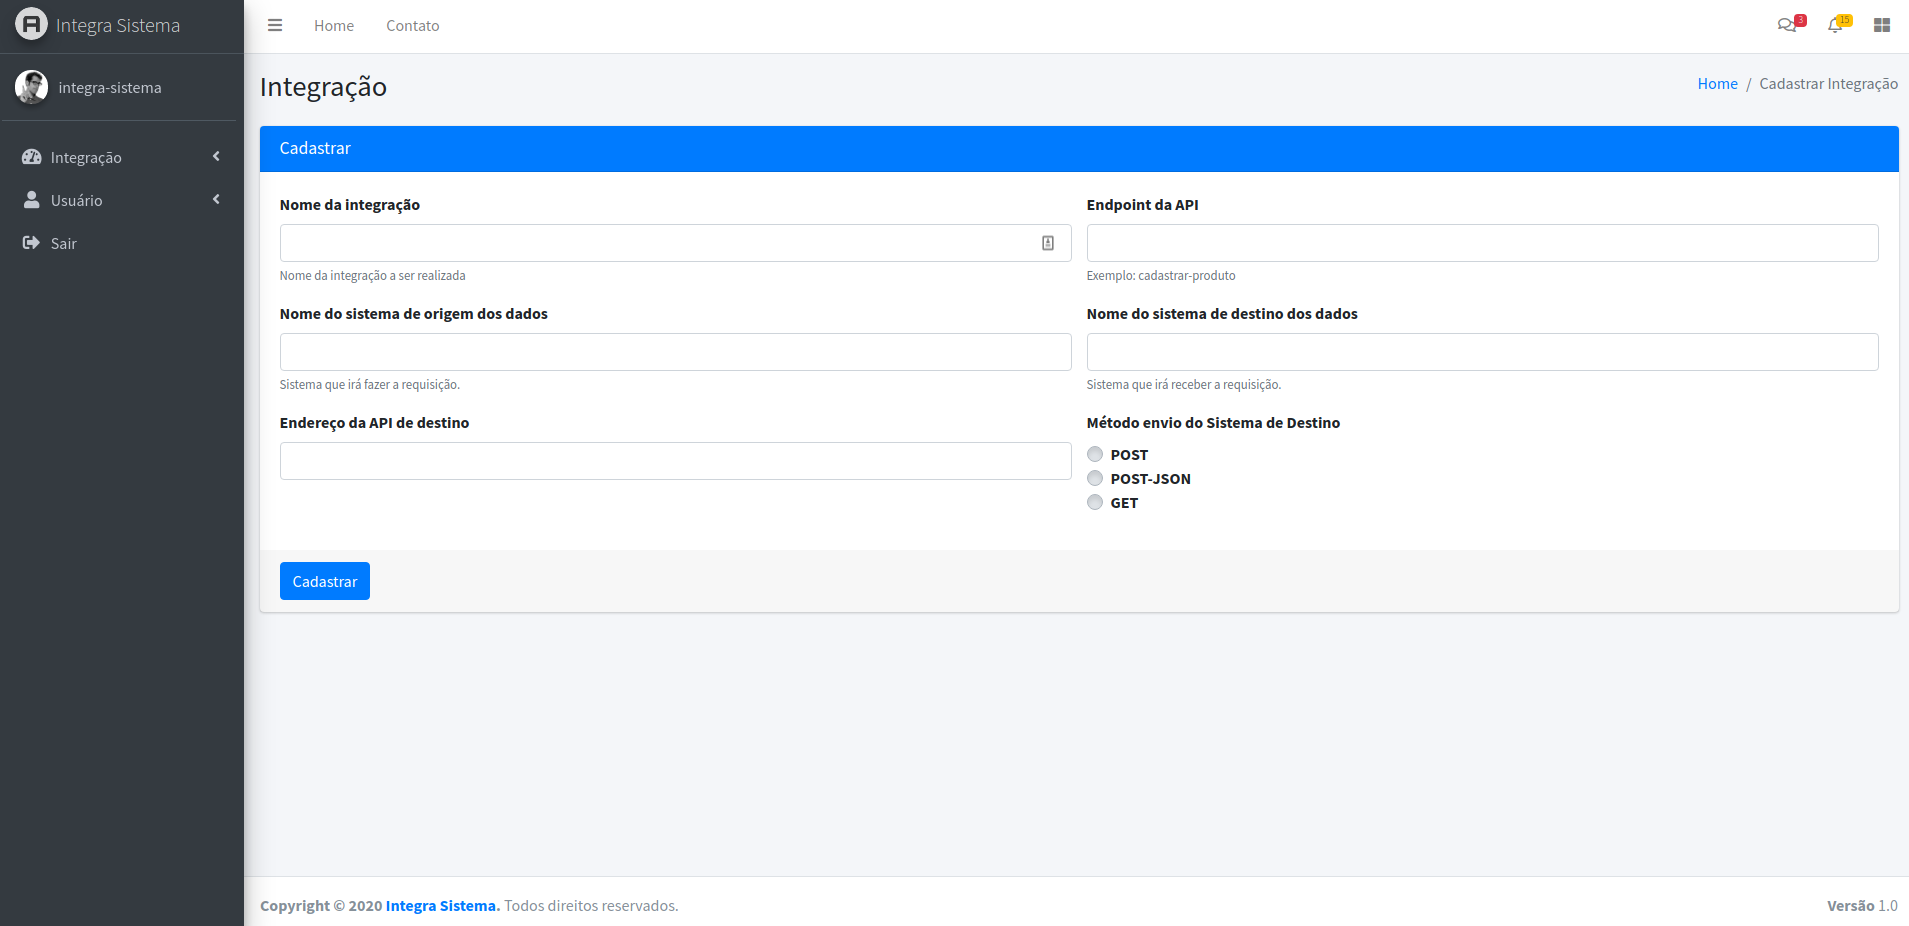
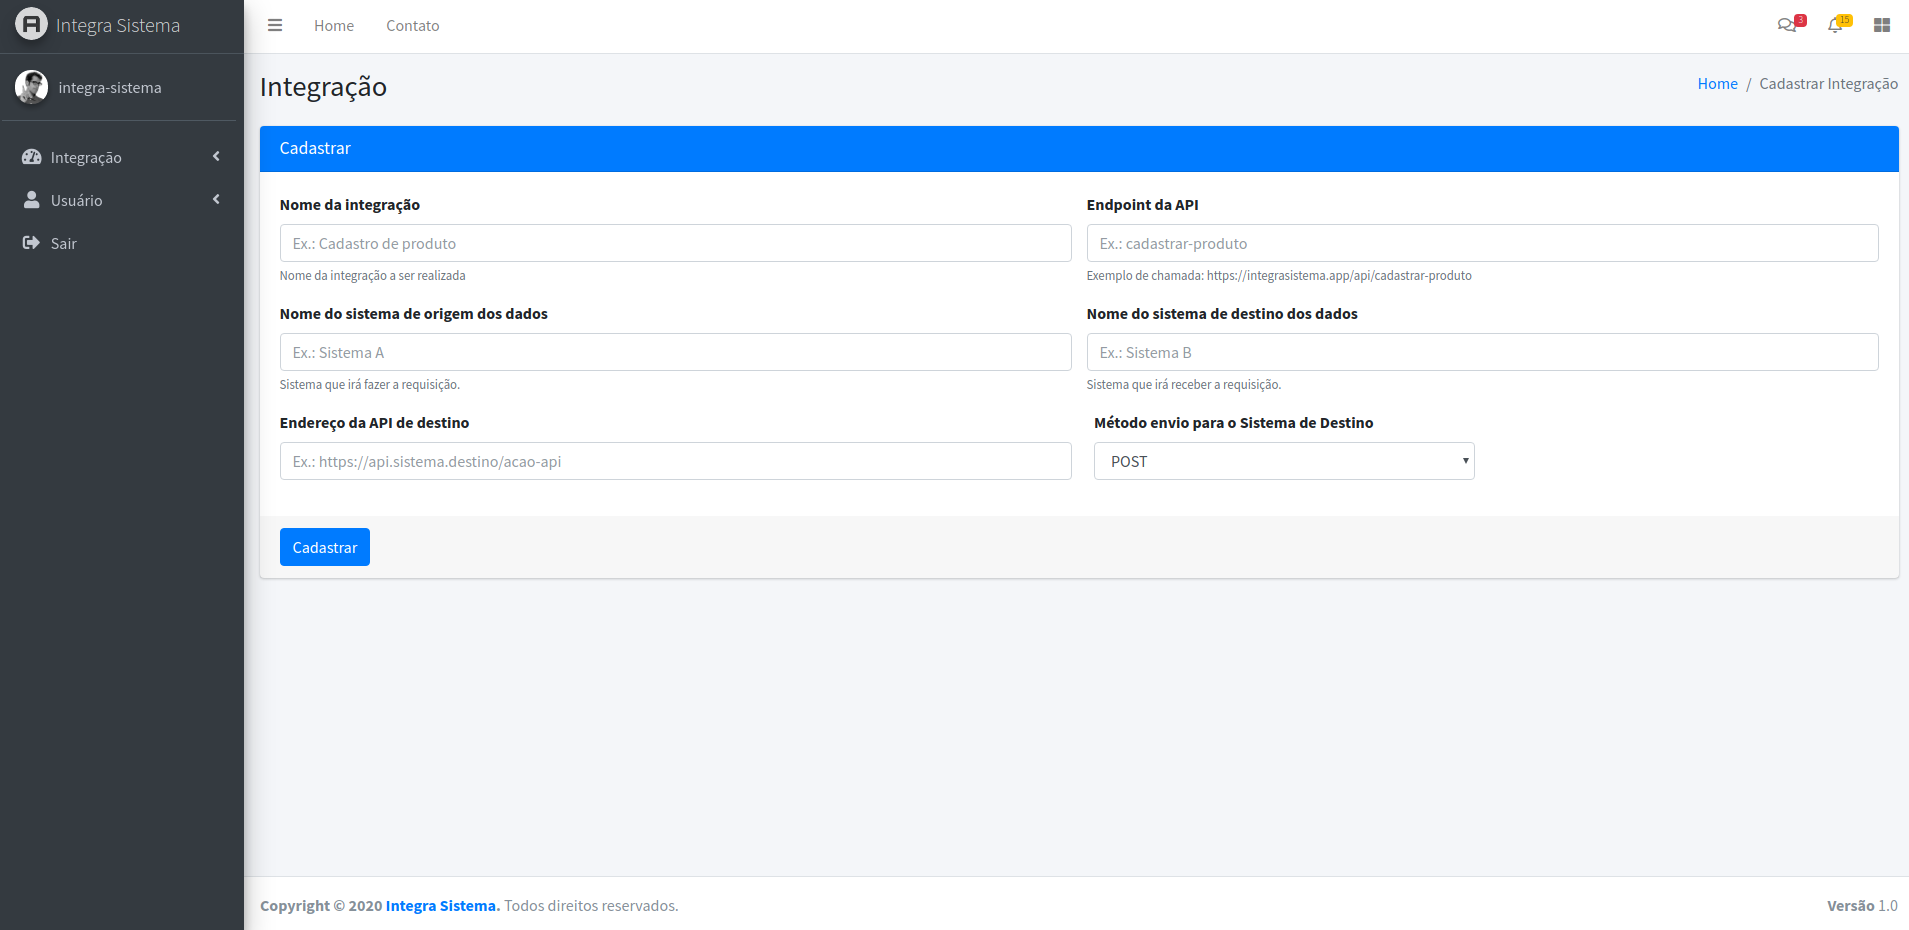
Ajuste na tela de cadastro de integração e na documentação

diff --git a/template/integracao/editar.html b/template/integracao/editar.html
@@ -52,47 +52,40 @@
                                         <div class="row">                    
                                             <div class="col-md-6">
                                                 <div class="form-group">
-                                                    <label for="nome">Nome da integração</label>
+                                                    <label for="nome">Nome da integração: <span class="text-success">{{.Parametro.Integracao.Nome}}</span></label>
                                                     <input type="hidden" id="id" name="id" required value="{{.Parametro.Integracao.ID}}" />
                                                     <input type="text" class="form-control" id="nome" name="nome" required value="{{.Parametro.Integracao.Nome}}" />
                                                     <small class="form-text text-muted">Nome usado para identificar a integração.</small>
                                                 </div>                            
                                                 <div class="form-group">
-                                                    <label for="nome_sistema_origem">Nome do sistema de origem dos dados</label>
+                                                    <label for="nome_sistema_origem">Nome do sistema de origem dos dados: <span class="text-success">{{.Parametro.Integracao.NomeSistemaOrigem}}</span></label>
                                                     <input type="text" class="form-control" id="nome_sistema_origem" name="nome_sistema_origem" required value="{{.Parametro.Integracao.NomeSistemaOrigem}}" />
                                                     <small class="form-text text-muted">Sistema que irá fazer a requisição.</small>
                                                 </div>
                                                 <div class="form-group">
-                                                    <label for="api_sistema_destino">Endereço da API de destino</label>
+                                                    <label for="api_sistema_destino">Endereço da API de destino: <span class="text-success">{{.Parametro.Integracao.APISistemaDestino}}</span></label>
                                                     <input type="text" class="form-control" id="api_sistema_destino" name="api_sistema_destino" required value="{{.Parametro.Integracao.APISistemaDestino}}" />
                                                 </div>                                                
                                             </div>
                                             <div class="col-md-6">
                                                 <div class="form-group">
-                                                    <label for="endpoint">Endpoint da API</label>                                
+                                                    <label for="endpoint">Endpoint da API: <span class="text-success">{{.Parametro.Integracao.Endpoint}}</span></label>                                
                                                     <input type="text" class="form-control" id="endpoint" name="endpoint" required value="{{.Parametro.Integracao.Endpoint}}" />
-                                                    <small class="form-text text-muted">Exemplo: cadastrar-produto</small>
+                                                    <small class="form-text text-muted">Exemplo de chamada: <span class="text-info">https://integrasistema.app/api/{{.Parametro.Integracao.Endpoint}}</span></small>
                                                 </div>                            
                                                 <div class="form-group">
-                                                    <label for="nome_sistema_destino">Nome do sistema de destino dos dados</label>
+                                                    <label for="nome_sistema_destino">Nome do sistema de destino dos dados: <span class="text-success">{{.Parametro.Integracao.NomeSistemaDestino}}</span></label>
                                                     <input type="text" class="form-control" id="nome_sistema_destino" name="nome_sistema_destino" required value="{{.Parametro.Integracao.NomeSistemaDestino}}" />
                                                     <small class="form-text text-muted">Sistema que irá receber a requisição.</small>
                                                 </div>
-                                                <div class="form-group">
-                                                    <label for="api_sistema_destino">Método envio do Sistema de Destino</label>   
-                                                    <div class="custom-control custom-radio">
-                                                        <input type="radio" class="custom-control-input" id="metodo_sistema_destino_post" name="metodo_sistema_destino" required value="POST" {{if eq .Parametro.Integracao.MetodoSistemaDestino "POST" }} checked {{end}} />
-                                                        <label class="custom-control-label" for="metodo_sistema_destino_post">POST</label>
-                                                    </div>                            
-                                                    <div class="custom-control custom-radio">
-                                                        <input type="radio" class="custom-control-input" id="metodo_sistema_destino_post_json" name="metodo_sistema_destino" required value="POST-JSON" {{if eq .Parametro.Integracao.MetodoSistemaDestino "POST-JSON" }} checked {{end}} />
-                                                        <label class="custom-control-label" for="metodo_sistema_destino_post_json">POST-JSON</label>
-                                                    </div>                                                    
-                                                    <div class="custom-control custom-radio">
-                                                        <input type="radio" class="custom-control-input" id="metodo_sistema_destino_get" name="metodo_sistema_destino" required value="GET" {{if eq .Parametro.Integracao.MetodoSistemaDestino "GET" }} checked {{end}} />
-                                                        <label class="custom-control-label" for="metodo_sistema_destino_get">GET</label>
-                                                    </div>                                                              
-                                                </div> 
+                                                <div class="form-group col-md-6">
+                                                    <label for="metodo_sistema_destino">Método envio para o Sistema de Destino: <span class="text-success">{{.Parametro.Integracao.MetodoSistemaDestino}}</span></label>
+                                                    <select id="metodo_sistema_destino" name="metodo_sistema_destino" class="form-control">
+                                                        <option value="POST" {{if eq .Parametro.Integracao.MetodoSistemaDestino "POST" }} selected {{end}}>POST</option>                                                      
+                                                        <option value="POST-JSON" {{if eq .Parametro.Integracao.MetodoSistemaDestino "POST-JSON" }} selected {{end}}>POST-JSON</option>
+                                                        <option value="GET" {{if eq .Parametro.Integracao.MetodoSistemaDestino "GET" }} selected {{end}}>GET</option>
+                                                    </select>
+                                                </div>
                                             </div> 
                                         </div>
                                     </div>

diff --git a/template/integracao/cadastrar.html b/template/integracao/cadastrar.html
@@ -53,45 +53,38 @@
                                             <div class="col-md-6">
                                                 <div class="form-group">
                                                     <label for="nome">Nome da integração</label>
-                                                    <input type="text" class="form-control" id="nome" name="nome" required />
+                                                    <input type="text" class="form-control" id="nome" name="nome" required placeholder="Ex.: Cadastro de produto" />
                                                     <small class="form-text text-muted">Nome da integração a ser realizada</small>
                                                 </div>                            
                                                 <div class="form-group">
                                                     <label for="nome_sistema_origem">Nome do sistema de origem dos dados</label>
-                                                    <input type="text" class="form-control" id="nome_sistema_origem" name="nome_sistema_origem" required />
+                                                    <input type="text" class="form-control" id="nome_sistema_origem" name="nome_sistema_origem" required placeholder="Ex.: Sistema A" />
                                                     <small class="form-text text-muted">Sistema que irá fazer a requisição.</small>
                                                 </div>     
                                                 <div class="form-group">
                                                     <label for="api_sistema_destino">Endereço da API de destino</label>
-                                                    <input type="text" class="form-control" id="api_sistema_destino" name="api_sistema_destino" required />
+                                                    <input type="text" class="form-control" id="api_sistema_destino" name="api_sistema_destino" required placeholder="Ex.: https://api.sistema.destino/acao-api" />
                                                 </div>                                                                                
                                             </div>
                                             <div class="col-md-6">
                                                 <div class="form-group">
                                                     <label for="endpoint">Endpoint da API</label>
-                                                    <input type="text" class="form-control" id="endpoint" name="endpoint" required />
-                                                    <small class="form-text text-muted">Exemplo: cadastrar-produto</small>
+                                                    <input type="text" class="form-control" id="endpoint" name="endpoint" required placeholder="Ex.: cadastrar-produto" />
+                                                    <small class="form-text text-muted">Exemplo de chamada: https://integrasistema.app/api/cadastrar-produto</small>
                                                 </div>                                                        
                                                 <div class="form-group">
                                                     <label for="nome_sistema_destino">Nome do sistema de destino dos dados</label>
-                                                    <input type="text" class="form-control" id="nome_sistema_destino" name="nome_sistema_destino" required />
+                                                    <input type="text" class="form-control" id="nome_sistema_destino" name="nome_sistema_destino" required placeholder="Ex.: Sistema B" />
                                                     <small class="form-text text-muted">Sistema que irá receber a requisição.</small>
                                                 </div>
-                                                <div class="form-group">
-                                                    <label for="api_sistema_destino">Método envio do Sistema de Destino</label>   
-                                                    <div class="custom-control custom-radio">
-                                                        <input type="radio" class="custom-control-input" id="metodo_sistema_destino_post" name="metodo_sistema_destino" required value="POST" />
-                                                        <label class="custom-control-label" for="metodo_sistema_destino_post">POST</label>
-                                                    </div>                            
-                                                    <div class="custom-control custom-radio">
-                                                        <input type="radio" class="custom-control-input" id="metodo_sistema_destino_post_json" name="metodo_sistema_destino" required value="POST-JSON" />
-                                                        <label class="custom-control-label" for="metodo_sistema_destino_post_json">POST-JSON</label>
-                                                    </div>                                                    
-                                                    <div class="custom-control custom-radio">
-                                                        <input type="radio" class="custom-control-input" id="metodo_sistema_destino_get" name="metodo_sistema_destino" required value="GET" />
-                                                        <label class="custom-control-label" for="metodo_sistema_destino_get">GET</label>
-                                                    </div>
-                                                </div> 
+                                                <div class="form-group col-md-6">
+                                                    <label for="metodo_sistema_destino">Método envio para o Sistema de Destino</label>
+                                                    <select id="metodo_sistema_destino" name="metodo_sistema_destino" class="form-control">
+                                                        <option value="POST">POST</option>                                                      
+                                                        <option value="POST-JSON">POST-JSON</option>
+                                                        <option value="GET">GET</option>
+                                                    </select>
+                                                </div>
                                             </div>
                                         </div>
                                     </div>

diff --git a/template/parametro/listar.html b/template/parametro/listar.html
@@ -54,14 +54,14 @@
                                             <div class="col-md-6">
                                                 <div class="form-group">
                                                     <label for="nome_parametro_entrada">Parâmetro do sistema: <strong>{{.Parametro.Integracao.NomeSistemaOrigem}}</strong></label>
-                                                    <input type="text" class="form-control" id="nome_parametro_entrada" name="nome_parametro_entrada" required />
+                                                    <input type="text" class="form-control" id="nome_parametro_entrada" name="nome_parametro_entrada" required placeholder="Ex.: cliente_nome" />
                                                     <small class="form-text text-muted">Sistema que irá fornecer o parâmetro.</small>
                                                 </div>                                   
                                             </div>
                                             <div class="col-md-6">
                                                 <div class="form-group">
                                                     <label for="nome_parametro_saida">Parâmetro do sistema: <strong>{{.Parametro.Integracao.NomeSistemaDestino}}</strong></label>
-                                                    <input type="text" class="form-control" id="nome_parametro_saida" name="nome_parametro_saida" required />
+                                                    <input type="text" class="form-control" id="nome_parametro_saida" name="nome_parametro_saida" required placeholder="Ex.: nome_cliente" />
                                                     <small class="form-text text-muted">Sistema que irá receber o parâmetro.</small>
                                                 </div>
                                             </div> 
